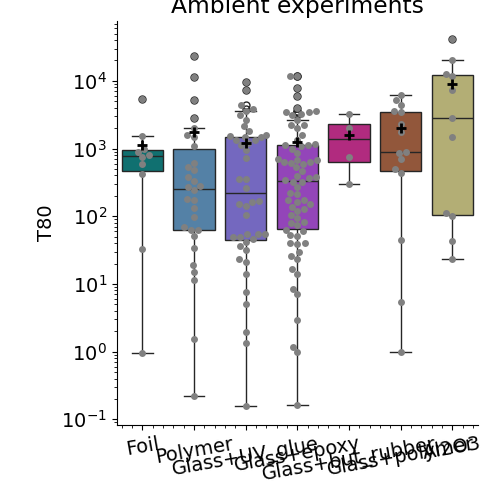
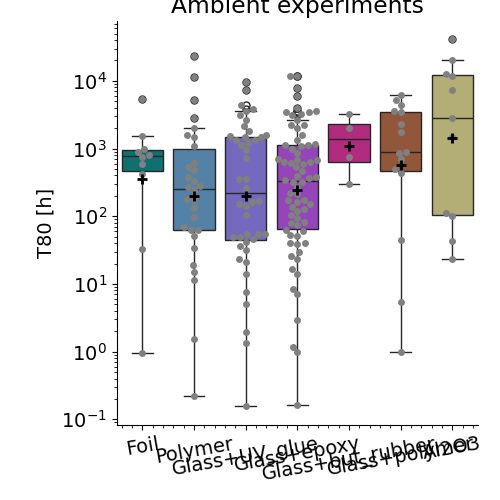
final version

diff --git a/Provskite_Encapsulation_Comparison.py b/Provskite_Encapsulation_Comparison.py
@@ -6,7 +6,6 @@ import seaborn
 import scipy
 import os
 
-
 if __name__ == '__main__':
     dir_path = os.path.dirname(os.path.realpath(__file__))
     output_path = dir_path + "\\outputs"
@@ -238,20 +237,20 @@ if __name__ == '__main__':
         plt.rcParams.update({'font.size': 14})
         seaborn.catplot(x="variable", y="value", data=pd.melt(data_for_box_plot.dropna(how= "all", axis=1)), kind="box",palette=my_colors)
         seaborn.swarmplot(x='variable', y='value', data=pd.melt(data_for_box_plot.dropna(how= "all", axis=1)), color="gray")
-        seaborn.pointplot(data=pd.melt(data_for_box_plot.dropna(how= "all", axis=1)), x="variable", y="value", estimator=np.mean,
-                          join=False, ci=None, markers='+', color='black', zorder=3)
-        plt.ylabel("T80")
+        pow_10_averagelogT80 = {"Foil":pow(10,np.average(Foils_logT80[i])),"Polymer":pow(10,np.average(Polymer_logT80[i])),"Glass+UV_glue":pow(10,np.average(Glass_UV_glue_logT80[i])), "Glass+epoxy":pow(10,np.average(Glass_epoxy_logT80[i])),"Glass+but_rubber":pow(10,np.average(Glass_butyl_rubber_logT80[i])), "Glass+polymer":pow(10,np.average(Glass_polymer_logT80[i])), "Al2O3":pow(10,np.average(Al2O3_logT80[i]))}
+        average_data =pd.DataFrame(pow_10_averagelogT80, index=[0])
+        seaborn.pointplot(data=average_data,join=False, ci=None, markers='+', color='black', zorder=3)
+        plt.ylabel("T80 [h]")
         plt.yscale('log')
         plt.minorticks_on()
         plt.xticks(rotation=10)
         plt.xlabel("")
         plt.title(Graph_titles[i])
-        frequency_table.append(['num of experiments'+Graph_titles[i],len(Foils_logT80[i]), len(Polymer_logT80[i]), len(Glass_UV_glue_logT80[i]), len(Glass_epoxy_logT80[i]),len(Glass_butyl_rubber_logT80[i]), len(Glass_polymer_logT80[i]),
-                      len(Al2O3_logT80[i])])
+        frequency_table.append(['num of experiments'+Graph_titles[i],len(Foils_logT80[i]), len(Polymer_logT80[i]), len(Glass_UV_glue_logT80[i]), len(Glass_epoxy_logT80[i]),len(Glass_butyl_rubber_logT80[i]), len(Glass_polymer_logT80[i]),len(Al2O3_logT80[i])])
         frequency_table.append(['average'+Graph_titles[i], np.average(Foils_logT80[i]), np.average(Polymer_logT80[i]),np.average(Glass_UV_glue_logT80[i]),
                       np.average(Glass_epoxy_logT80[i]),np.average(Glass_butyl_rubber_logT80[i]), np.average(Glass_polymer_logT80[i]), np.average(Al2O3_logT80[i])])
         frequency_table.append(['stdev'+Graph_titles[i], np.std(Foils_logT80[i]),np.std(Polymer_logT80[i]), np.std(Glass_UV_glue_logT80[i]), np.std(Glass_epoxy_logT80[i]),np.std(Glass_butyl_rubber_logT80[i]), np.std(Glass_polymer_logT80[i]), np.std(Al2O3_logT80[i])])
-
+        #preparing t-test analysis
         t_test = []  # currently only printing t-test combinations of groups with more than 5 experiments - if more experiments are added after Sep. 3rd 2024 change this and add all combinations
         t_test.append([None,'Polymer','Glass+UV glue','Glass+epoxy','Glass +butyl rubber','Glass +polymer','Al2O3'])
         t_test.append(['Foil', scipy.stats.ttest_ind(Foils_logT80[i], Polymer_logT80[i], axis=0, equal_var=False).pvalue, scipy.stats.ttest_ind(Foils_logT80[i], Glass_UV_glue_logT80[i], axis=0, equal_var=False).pvalue, scipy.stats.ttest_ind(Foils_logT80[i], Glass_epoxy_logT80[i], axis=0, equal_var=False).pvalue, scipy.stats.ttest_ind(Foils_logT80[i], Glass_butyl_rubber_logT80[i], axis=0, equal_var=False).pvalue,
